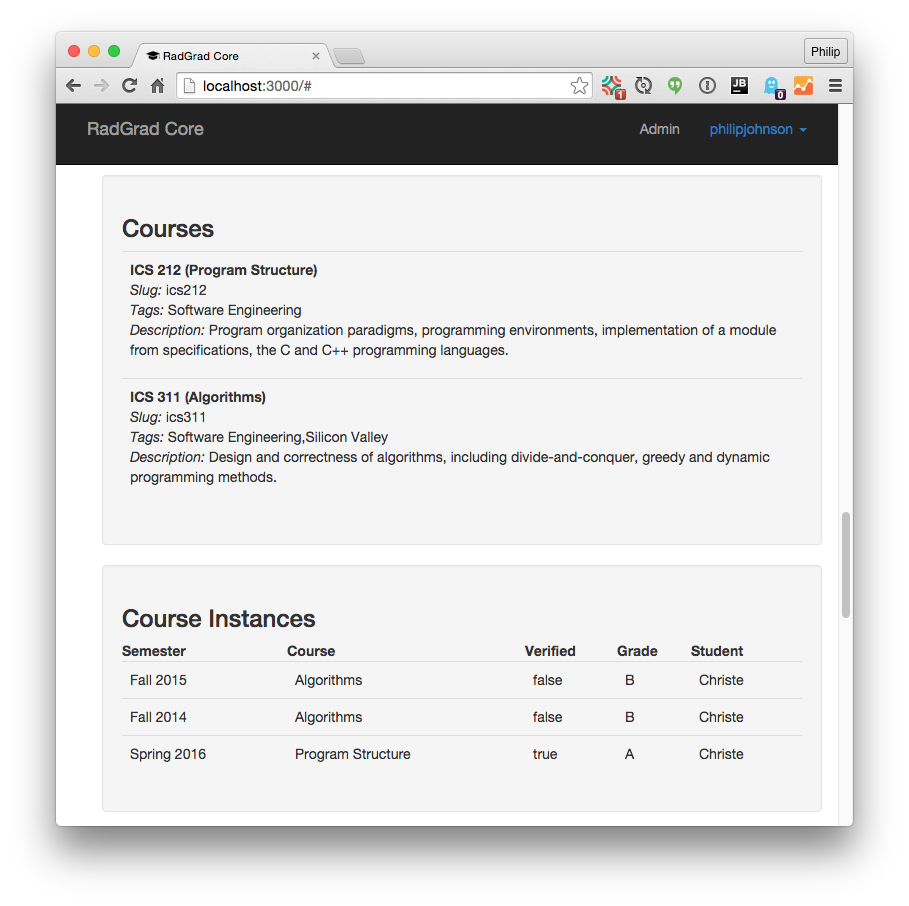
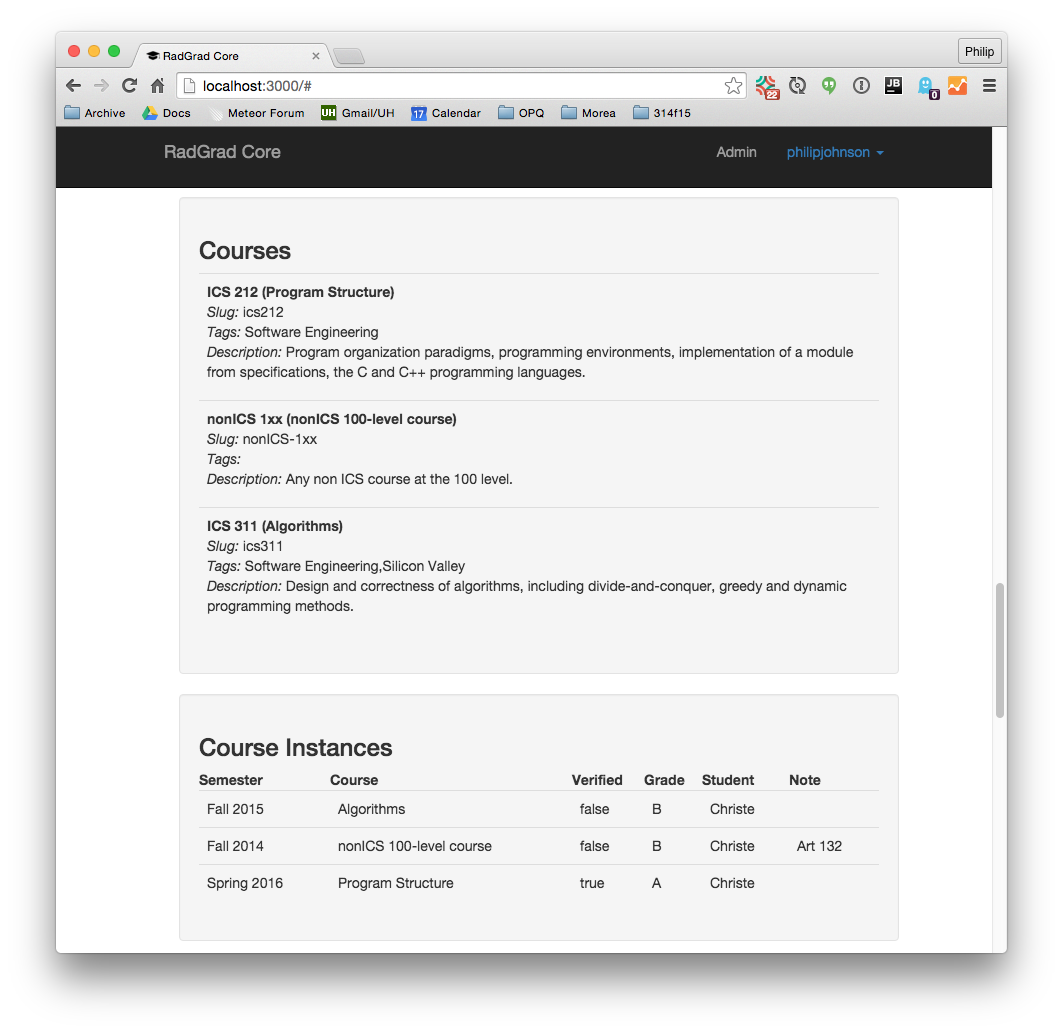
update system

diff --git a/app/client/templates/home/ListData.js b/app/client/templates/home/ListData.js
@@ -48,7 +48,8 @@ Template.ListData.helpers({
       let verified = `${courseInstance.verified}`;
       let grade = `${courseInstance.grade}`;
       let student = `${RadGrad.user.findOne(courseInstance.studentID).lastName}`;
-      return {semester: semester, course: course, verified: verified, grade: grade, student: student}
+      let note = courseInstance.note;
+      return {semester: semester, course: course, verified: verified, grade: grade, student: student, note: note}
     })
   },
 
@@ -95,9 +96,12 @@ Template.ListData.helpers({
       let sponsor = `*Sponsor:* ${RadGrad.user.findOne(opportunity.sponsorID).lastName}`;
       let tags = `<br>*Tags:* ${RadGrad.tag.getTagNames(opportunity.tagIDs)}`;
       let description = `<br>*Description:* ${opportunity.description}`;
+      let start = moment(opportunity.startActive).format('MM/DD/YYYY');
+      let end = moment(opportunity.endActive).format('MM/DD/YYYY');
+      let activeInterval = `<br>*Active Interval:* ${start} - ${end}`;
 
       return { iconURL: opportunity.iconURL,
-        description: name + slug + opportunityType + sponsor + tags + description};
+        description: name + slug + opportunityType + sponsor + tags + description + activeInterval};
     })
   },
 

diff --git a/app/server/sample-data-model/definitions/Opportunities.js b/app/server/sample-data-model/definitions/Opportunities.js
@@ -6,7 +6,9 @@ defineOpportunities = function() {
       description: "Da best",
       opportunityType: "event",
       sponsor: "philipjohnson",
-      tags: ["software-engineering"]
+      tags: ["software-engineering"],
+      startActive: moment("2015-01-12").toDate(),
+      endActive: moment("2015-02-12").toDate()
     },
     {
       name: "ACM Manoa Membership",
@@ -14,7 +16,9 @@ defineOpportunities = function() {
       description: "ACM Student Chapter",
       opportunityType: "club",
       sponsor: "henricasanova",
-      tags: ["software-engineering", "silicon-valley"]
+      tags: ["software-engineering", "silicon-valley"],
+      startActive: moment("2015-01-12").toDate(),
+      endActive: moment("2016-02-12").toDate()
     }
   ];
 

diff --git a/app/server/sample-data-model/definitions/StudentProfile.js b/app/server/sample-data-model/definitions/StudentProfile.js
@@ -10,7 +10,7 @@ defineStudentProfile = function() {
 
   let sampleCourseInstanceData = [
     {semesterID: RadGrad.semester.get("Fall", 2015), course: "ics311", verified: false, grade: "B", studentID: acID},
-    {semesterID: RadGrad.semester.get("Fall", 2014), course: "ics311", verified: false, grade: "B", studentID: acID},
+    {semesterID: RadGrad.semester.get("Fall", 2014), course: "nonICS-1xx", verified: false, grade: "B", studentID: acID, note: "Art 132"},
     {semesterID: RadGrad.semester.get("Spring", 2016), course: "ics212", verified: true, grade: "A", studentID: acID}
   ];
 

diff --git a/app/client/templates/home/ListData.html b/app/client/templates/home/ListData.html
@@ -176,6 +176,7 @@
         <th>Verified</th>
         <th>Grade</th>
         <th>Student</th>
+        <th>Note</th>
         </thead>
         <tbody>
         {{#each courseInstanceList}}
@@ -185,6 +186,7 @@
             <td>{{verified}}</td>
             <td>{{grade}}</td>
             <td>{{student}}</td>
+            <td>{{note}}</td>
           </tr>
         {{/each}}
         </tbody>

diff --git a/app/server/sample-data-model/definitions/Courses.js b/app/server/sample-data-model/definitions/Courses.js
@@ -8,6 +8,13 @@ defineCourses = function() {
       tags: ["software-engineering"]
     },
     {
+      name: "nonICS 100-level course",
+      slug: "nonICS-1xx",
+      number: "nonICS 1xx",
+      description: "Any non ICS course at the 100 level.",
+      tags: []
+    },
+    {
       name: "Algorithms",
       slug: "ics311",
       number: "ICS 311",
